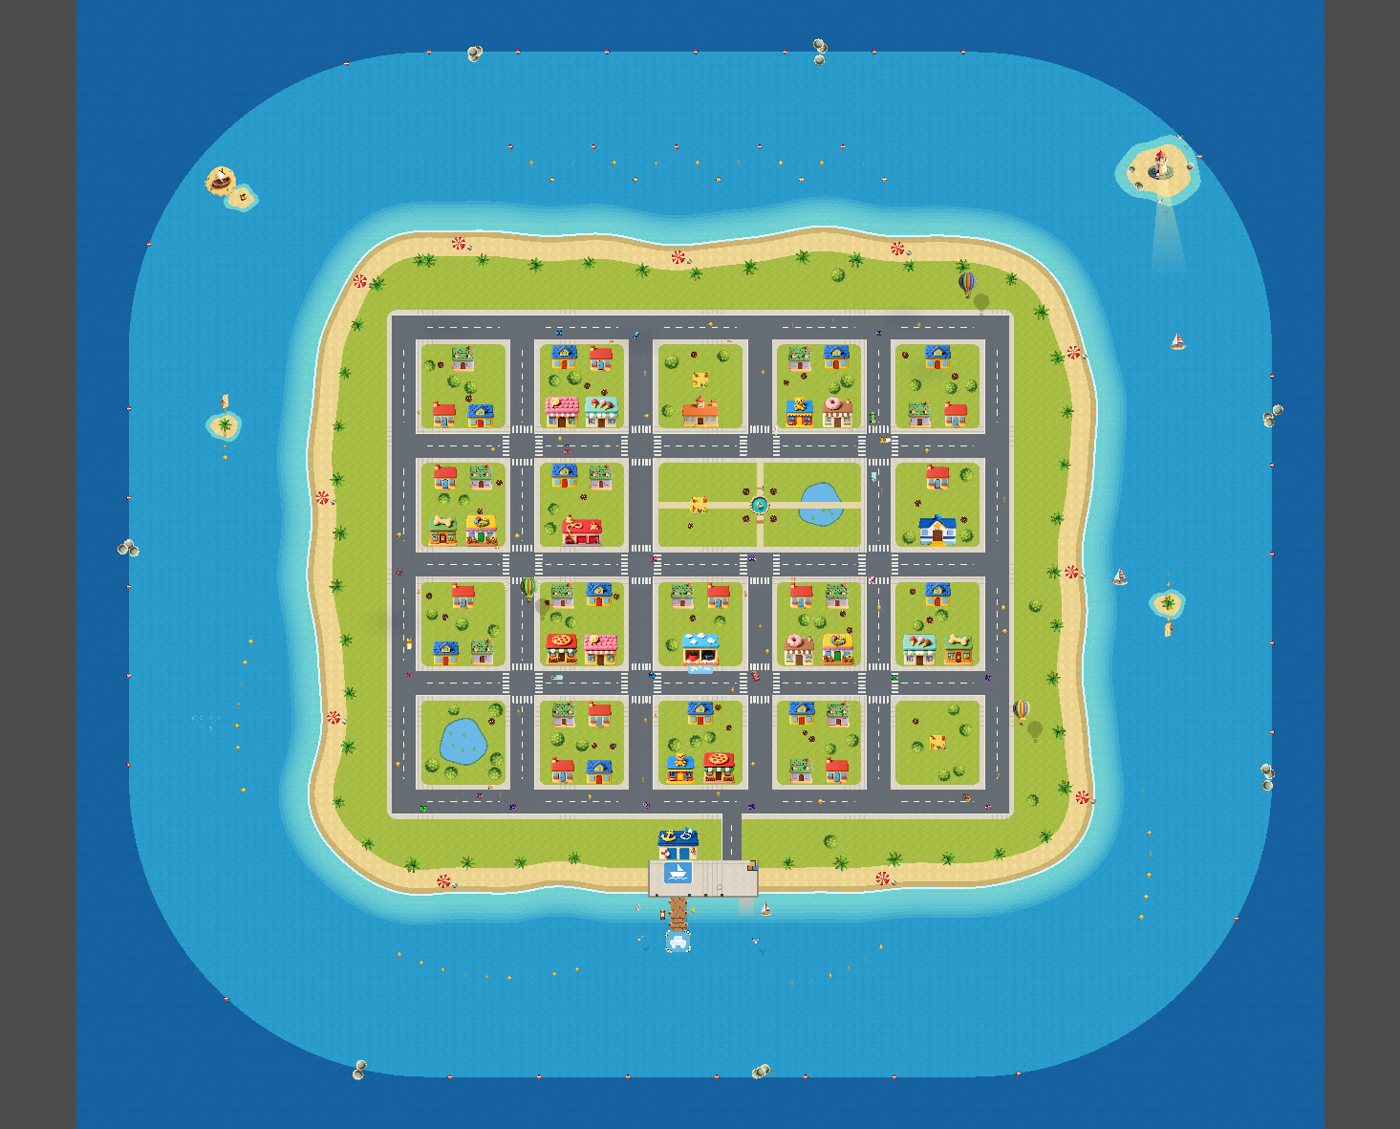
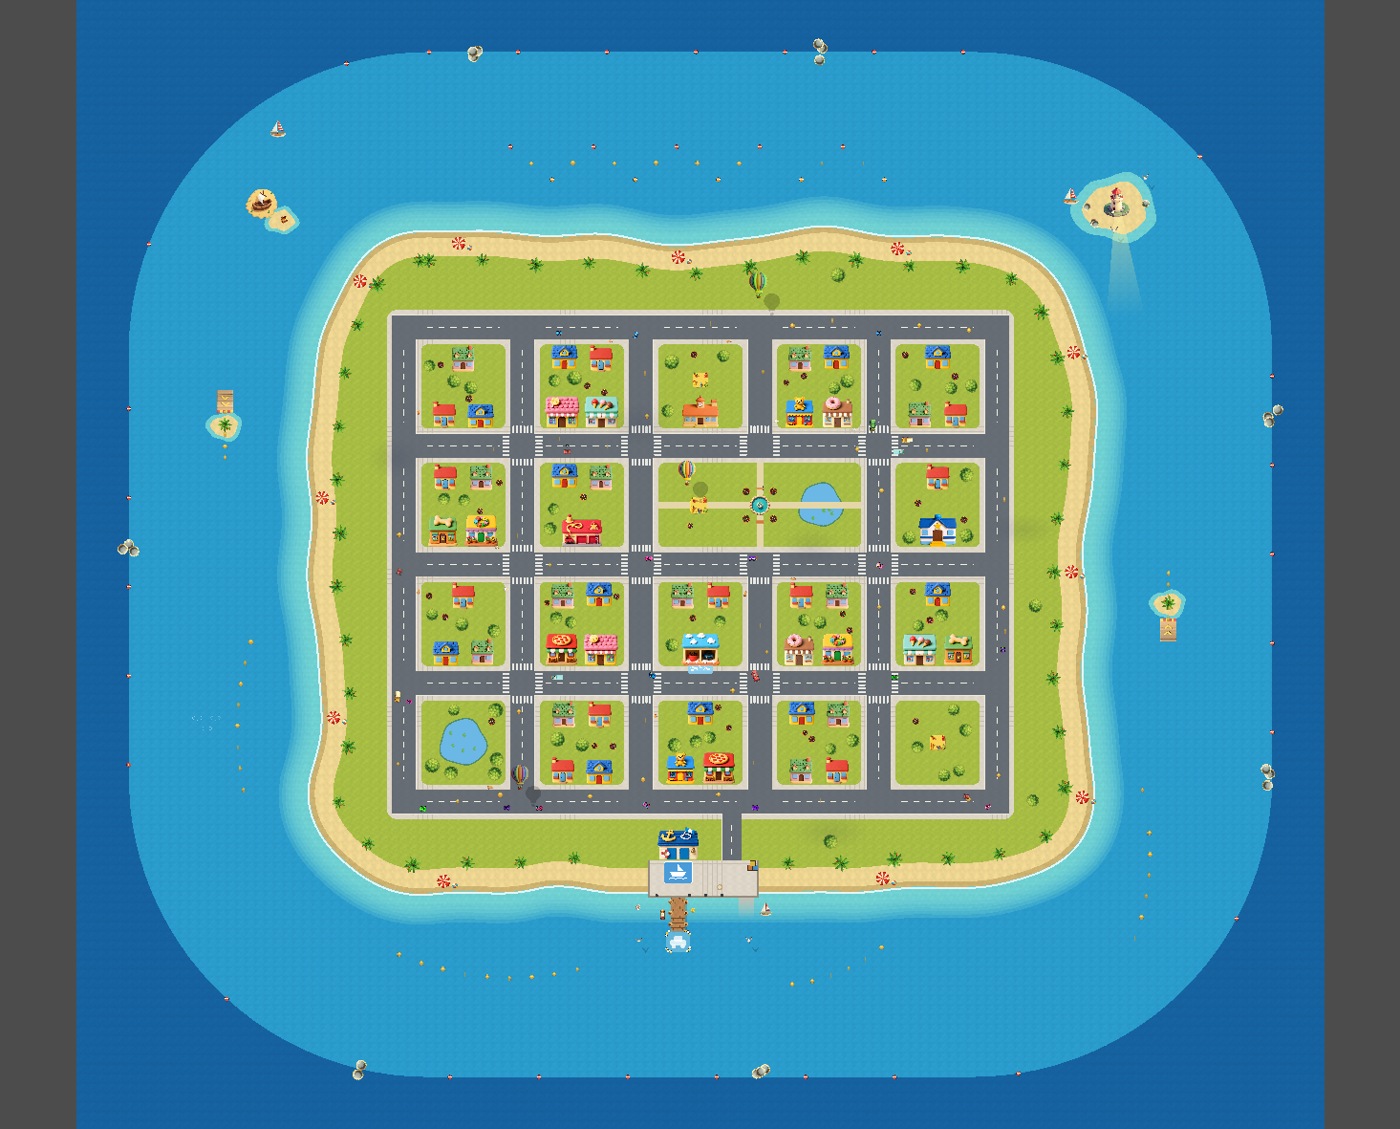
Boat ramps drawn from above; sailboat loops clear of the islets
The ramp was a three-quarter picture and looked skewed or upside down once
turned along a channel or towards an islet. It is now a Kontext edit of a
top-down sketch (postprocess.ramp_sketch), seed 26, and reads at any angle.
The big sailboat loop ran through the east ramp islet: it now runs 2,100 px
out, the small loop circles the lighthouse, and the lighthouse and the wreck
sit nearer the island to leave it room.

diff --git a/tools/comfy/postprocess.py b/tools/comfy/postprocess.py
@@ -268,3 +268,33 @@ def building_sketch(sketch: dict, size: int = 1536) -> Image.Image:
         for wx in (inner[0], inner[1] - 220):
             d.rounded_rectangle((wx, eave + 100, wx + 220, eave + 100 + win_h), 24, fill=glass)
     return img
+
+
+def ramp_sketch(sketch: dict, size: int = 1536) -> Image.Image:
+    """A boat jump ramp seen from straight above, pointing right: planks running across it,
+    darker at the low end on the left (where it dips into the water) and paler towards the
+    raised end on the right, which has a striped lip and casts a shadow; two arrows point the
+    way the boats go. FLUX draws a ramp three-quarter however it is asked, and a three-quarter
+    ramp cannot be turned to lie along a channel; Kontext keeps this view (DESIGN.md §20.2).
+    `sketch`: width and length as fractions of `size`, and the number of boards."""
+    img = Image.new("RGB", (size, size), (250, 250, 248))
+    d = ImageDraw.Draw(img)
+    length, width = round(sketch["length"] * size), round(sketch["width"] * size)
+    x0, y0 = (size - length) // 2, (size - width) // 2
+    x1, y1 = x0 + length, y0 + width
+    d.rounded_rectangle((x0 + 40, y0 + 50, x1 + 70, y1 + 60), 40, fill=(222, 222, 220))  # the raised end's shadow
+    boards = sketch.get("boards", 9)
+    lip = round(length * 0.1)
+    each = (length - lip) / boards
+    for i in range(boards):
+        shade = 0.72 + 0.28 * i / (boards - 1)
+        colour = tuple(round(c * shade) for c in (232, 184, 120))
+        bx = x0 + i * each
+        d.rectangle((bx, y0, bx + each - 6, y1), fill=colour)
+    stripe = round(width / 6)
+    for k in range(6):
+        d.rectangle((x1 - lip, y0 + k * stripe, x1, y0 + (k + 1) * stripe), fill=(250, 205, 40) if k % 2 == 0 else (225, 60, 50))
+    for cx in (x0 + length * 0.3, x0 + length * 0.55):
+        d.line([(cx, y0 + width * 0.28), (cx + width * 0.2, y0 + width * 0.5), (cx, y0 + width * 0.72)], fill=(250, 205, 40),
+               width=round(width * 0.07), joint="curve")
+    return img

diff --git a/tools/comfy/generate_assets.py b/tools/comfy/generate_assets.py
@@ -104,10 +104,12 @@ def post_of(entry: dict, entries: dict) -> list[str]:
 
 def render_sprite(client: ComfyClient, ref: str, entry: dict, seed: int) -> tuple[Image.Image, Image.Image]:
     """(cut-out, raw) for a sprite. A background (`size` set) has no cut-out: both are the picture.
-    A building (`sketch` set) is Kontext's edit of its block sketch (pipeline.json `buildings`)."""
+    A building (`sketch` set) is Kontext's edit of its block sketch (pipeline.json `buildings`);
+    so is anything else drawn first as a sketch in the view it must keep (`sketch_kind`: the
+    boat ramp, seen from straight above)."""
     if "sketch" in entry:
         buf = io.BytesIO()
-        pp.building_sketch(entry["sketch"]).save(buf, "PNG")
+        SKETCHES[entry.get("sketch_kind", "building")](entry["sketch"]).save(buf, "PNG")
         uploaded = client.upload_image(buf.getvalue(), f"vr_sketch_{entry['id']}.png")
         images = client.run(recipe.building_graph(uploaded, entry["subject"], entry["details"], seed))
         return (Image.open(io.BytesIO(images["save_cutout"][0])).convert("RGBA"),
@@ -120,6 +122,8 @@ def render_sprite(client: ComfyClient, ref: str, entry: dict, seed: int) -> tupl
     return (Image.open(io.BytesIO(images["save_cutout"][0])).convert("RGBA"),
             Image.open(io.BytesIO(images["save"][0])).convert("RGB"))
 
+
+SKETCHES = {"building": pp.building_sketch, "ramp": pp.ramp_sketch}
 
 # "mirror" flips left-right: a three-quarter view (the pirate ship) turned 180 degrees would hang upside down.
 POST_STEPS = {"punch_hole": pp.punch_center_hole, "sticker": pp.sticker_border,

diff --git a/docs/DESIGN.md b/docs/DESIGN.md
@@ -1508,6 +1508,14 @@ the roster in the same way as car opponents (§8).
   rather than turned, or it would sail upside down. The splash and the ramp take-off were cut
   from the approved wake and wave recordings (`derive_sfx.py`): Stable Audio's one-shot water
   sounded like wind.
+- **The ramp is drawn from above** (redrawn in Phase 21). The first ramp was a three-quarter
+  picture (a raised end on a block, seen at an angle). A ramp is turned to lie along the
+  channel, and turned by 90–160° the three-quarter picture looked skewed or upside down. It is
+  now a Kontext edit of a top-down sketch (`postprocess.ramp_sketch`, the buildings' trick):
+  planks across, darker at the low end, a striped lip at the raised end and arrows pointing the
+  way to go, so it reads at any angle. Seed 26 of eight; 25 and 26 kept the view, the rest
+  went three-quarter again ([sheet](mockups/candidates/water_ramp.png),
+  [every angle, before and after](mockups/candidates/water_ramp_angles.png)).
 
 ---
 
@@ -1615,13 +1623,13 @@ walls for boats. The town's pond stays car water, as it is now; a boat can never
 | Thing | Where | What happens |
 | --- | --- | --- |
 | **Coin trails** | Arcs of 7–9 coins round the coast, through the slalom and over the ramps | Each coin is worth 2. It is banked at once and comes back 40 s later, as in town |
-| **Lighthouse** | On a rocky islet to the north-east | Its beam sweeps slowly round. Sailing within 700 px of it counts as a place (`LIGHTHOUSE`) |
+| **Lighthouse** | On a rocky islet off the north-east corner | Its beam sweeps slowly round. Sailing within 700 px of it counts as a place (`LIGHTHOUSE`) |
 | **Two ramp islets** | East and west | A ramp in the water in front of a sandy islet with a palm. Jump the islet and collect the coins in the air (Phase 20's ramp and airborne) |
 | **Buoy slalom** | Along the north shore | Ten buoys, alternately left and right, with a coin in each gate |
-| **Shipwreck** | North-west | The Phase 20 wreck on a sandbar, with a treasure chest. Sailing within 700 px of it counts as a place (`SHIPWRECK`) |
+| **Shipwreck** | Off the north-west corner | The Phase 20 wreck on a sandbar, with a treasure chest. Sailing within 700 px of it counts as a place (`SHIPWRECK`) |
 | **Dolphins** | West | A pod of three. When a boat comes within 1,100 px they swim along beside it (up to 2,600 px from home), each leaping in an arc every 1–2.4 s, with a splash and, near the player, a whistle |
 | **Seagulls** | Two over the harbour, two over the lighthouse | They circle, flapping. A horn within 520 px sends one off crying; it fades back in over its spot 9 s later |
-| **Two sailboats** | One loops round the whole island, the other round the east islet | They follow fixed loops at a gentle speed. They are bumpers: a boat that meets one bounces off softly |
+| **Two sailboats** | One loops round the whole island, 2,100 px out (past every islet, ramp and coin trail), the other round the lighthouse | They follow fixed loops at a gentle speed. They are bumpers: a boat that meets one bounces off softly |
 
 The places at sea count towards the all-places bonus, which grows from 11 to 14 places (the
 harbour, the lighthouse and the shipwreck).
@@ -1657,7 +1665,10 @@ harbour, the lighthouse and the shipwreck).
 
 ### 21.7 Under the hood (Gate C)
 
-- **`Island`** holds every position (the mockup script has its own copy of the same numbers).
+- **`Island`** holds every position. The mockup script has its own copy of the numbers it was
+  approved with; since then the lighthouse and the wreck have moved about 600 px nearer the
+  island, so the big sailboat loop could pass outside them (the first loop, 1,250 px out, ran
+  straight through the east ramp islet).
   The outline is a rounded rectangle round the town's world rect, 80 px a point, with the
   waterline wobbling by three sine waves along it; the wobble fades out towards the harbour.
 - **`town.gd`:**
